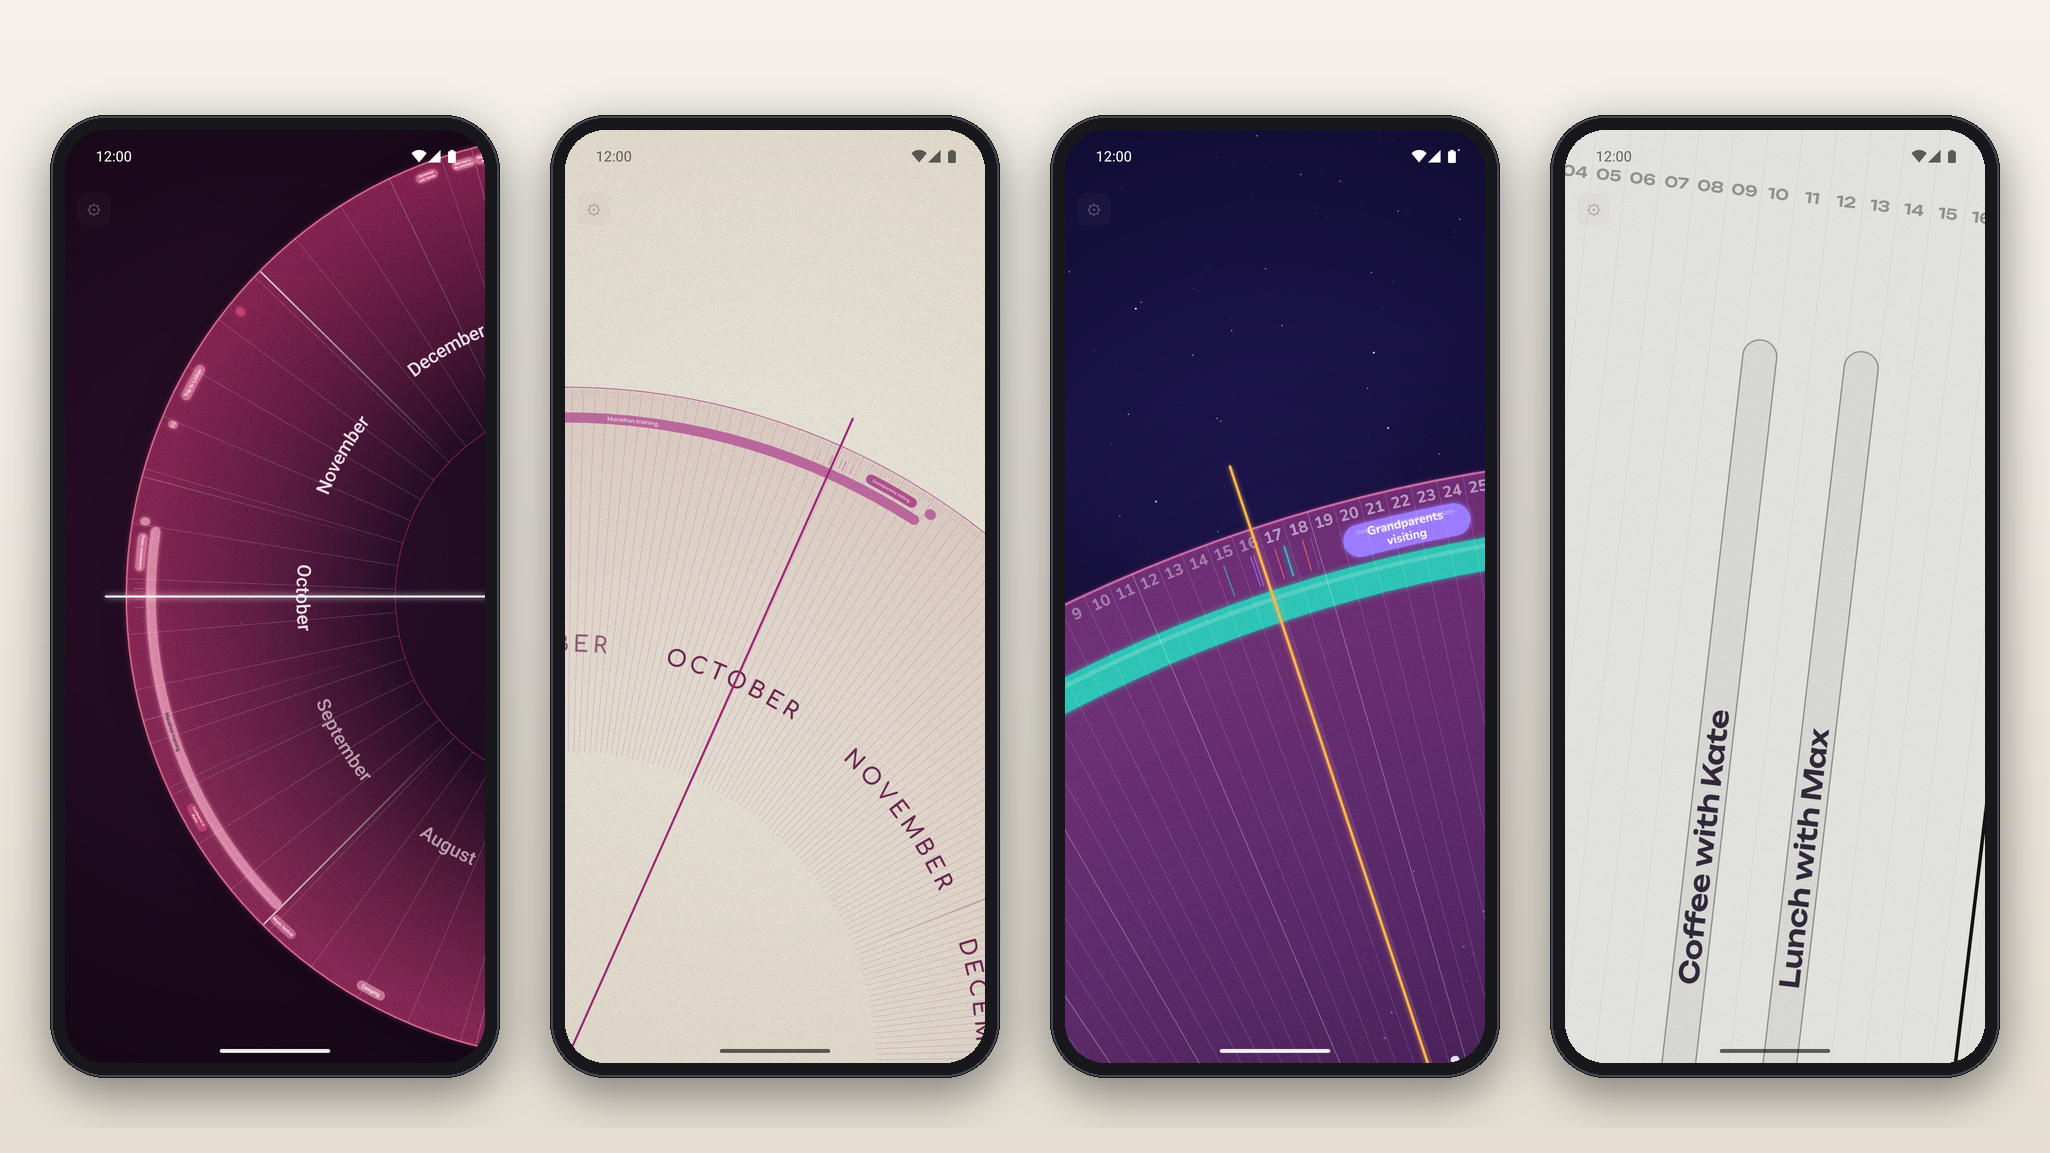
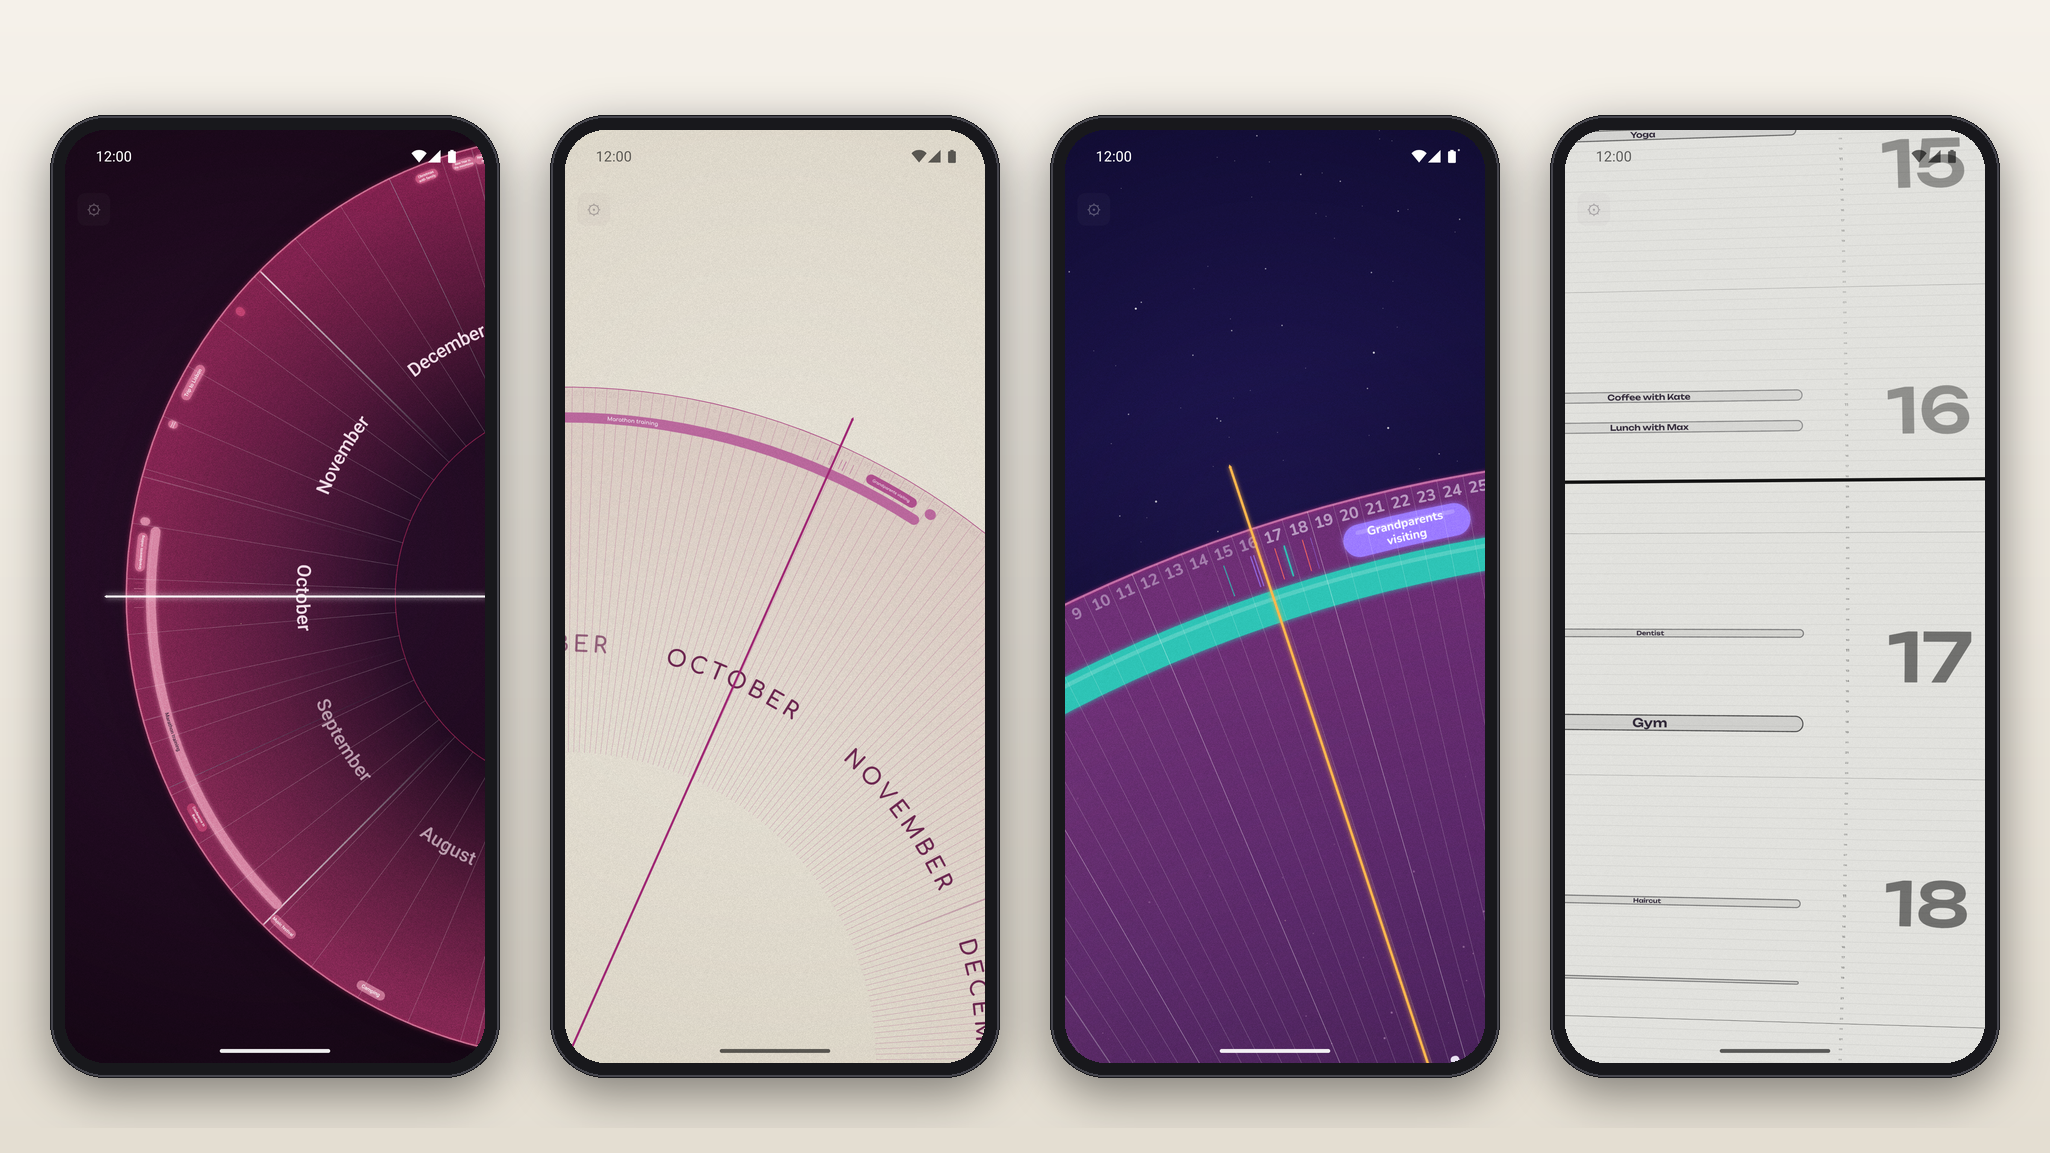
Mockups: rotated multi-day close-up with daily events; Chalk instead of Classic in hero

diff --git a/tools/mockups.py b/tools/mockups.py
@@ -78,7 +78,7 @@ def hero():
                 font("nunito.ttf", 46), (200, 186, 230))
     # Symmetric: light themes outside, dark inside, Dusk in the centre.
     picks = [("paper", "days", 380), ("plum", "diag", 430), ("dusk", "rise", 500),
-             ("ink", "side", 430), ("classic", "days", 380)]
+             ("ink", "side", 430), ("chalk", "days", 380)]
     xs = [400, 790, 1200, 1610, 2000]
     # Layered: outer phones first, the centre one on top.
     for k in (0, 4, 1, 3, 2):
@@ -143,7 +143,7 @@ def main():
     os.makedirs(os.path.join(OUT, "screens"), exist_ok=True)
     hero().save(os.path.join(OUT, "hero.png"), optimize=True)
     grid([("plum", "side", ""), ("paper", "diag", ""), ("cartoon", "close", ""),
-          ("chalk", "inday", "")], 4).save(os.path.join(OUT, "angles.png"), optimize=True)
+          ("chalk", "near", "")], 4).save(os.path.join(OUT, "angles.png"), optimize=True)
     for f in sorted(os.listdir(SHOTS)):
         if f.endswith(".png"):
             im = Image.open(os.path.join(SHOTS, f)).convert("RGB")
